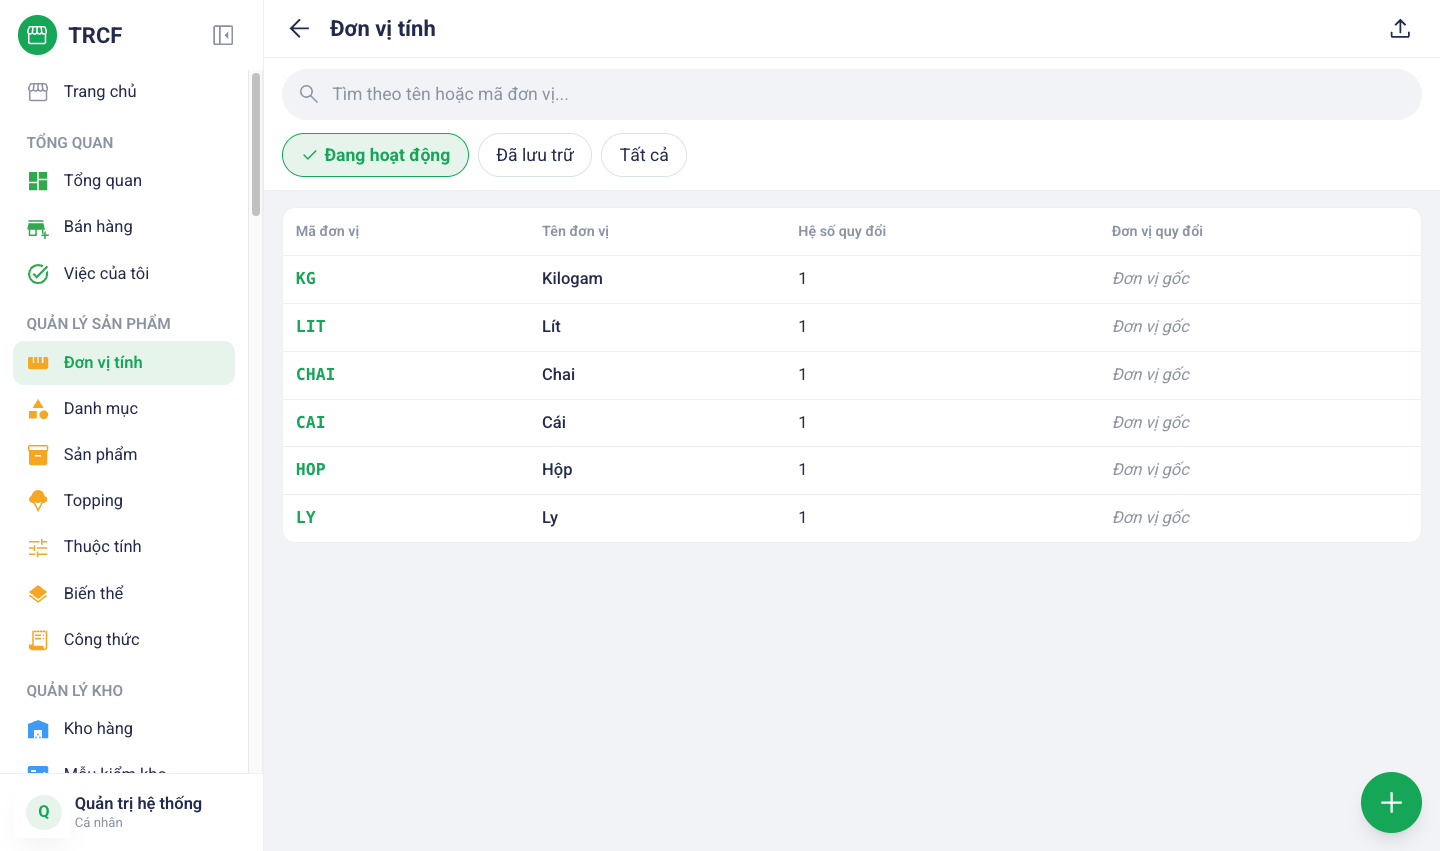
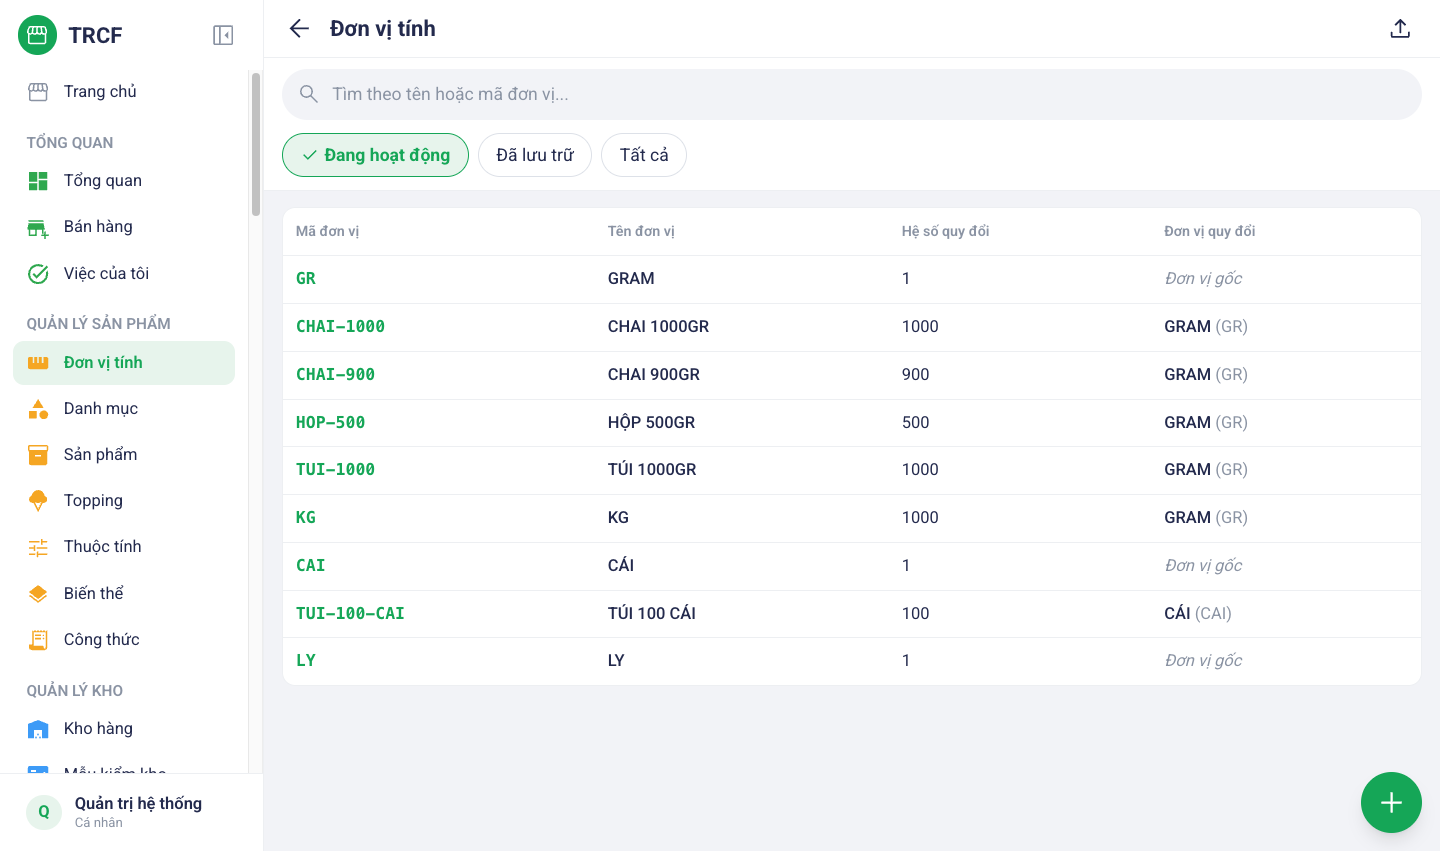
docs(1.1): đơn vị tính theo bộ mẫu GRAM → CHAI/HỘP/TÚI/KG
Chụp lại 3 ảnh trên dữ liệu thật Coffeetree: danh sách xếp gốc trước,
đơn vị lớn sau; bước 2 thêm GRAM (GR, đơn vị gốc); bước 3 thêm
CHAI 1000GR (quy về GRAM, hệ số 1000). Khung ví dụ, bảng trường và
bộ đơn vị mẫu đổi theo cùng bộ GR, CHAI, HỘP, TÚI, KG, TÚI 100 CÁI.

diff --git a/noi-dung/1-1-thiet-lap-don-vi-tinh.md b/noi-dung/1-1-thiet-lap-don-vi-tinh.md
@@ -9,11 +9,11 @@ Menu trái: ==Quản lý sản phẩm → Đơn vị tính== (địa chỉ `/uom
 
 ## 2. Ví dụ nền và các bước thực hiện
 
-> **Ví dụ:** cà phê nhập theo KG, pha chế trừ theo G; ly nhập theo thùng, bán theo cái.
+> **Ví dụ:** siro nhập theo chai 1000GR, pha chế trừ theo gram; ly nhựa nhập theo túi 100 cái, dùng theo cái.
 >
-> - Đơn vị gốc: **G**, **CÁI** (hệ số 1).
-> - Đơn vị lớn: **KG** = 1000 G · **THÙNG 30 CÁI** = 30 CÁI.
-> - Nhập 5 KG → hệ thống ghi tồn 5000 G.
+> - Đơn vị gốc: **GR** (GRAM), **CAI** (CÁI) — hệ số 1.
+> - Đơn vị lớn: **CHAI 1000GR** = 1000 GR · **TÚI 100 CÁI** = 100 CÁI.
+> - Nhập 5 CHAI 1000GR → hệ thống ghi tồn 5000 GR.
 
 ### Bước 1: Mở trang Đơn vị tính
 
@@ -32,7 +32,7 @@ Menu trái: ==Quản lý sản phẩm → Đơn vị tính== (địa chỉ `/uom
 
 - Bấm **+** lần nữa.
 - Điền như ảnh, bấm **Thêm đơn vị**.
-- Làm tương tự cho **KG**: quy đổi về **G**, hệ số **1000**.
+- Làm tương tự cho **KG**: quy đổi về **GRAM**, hệ số **1000**.
 
 ![Bước 3: Thêm đơn vị lớn hơn](images/02-uom-buoc-3-don-vi-quy-doi.png)
 
@@ -41,25 +41,26 @@ Menu trái: ==Quản lý sản phẩm → Đơn vị tính== (địa chỉ `/uom
 
 | Trường         | Điền gì                                                                                                                     | Bắt buộc |
 | -------------- | --------------------------------------------------------------------------------------------------------------------------- | -------- |
-| Mã đơn vị      | Ngắn, viết hoa. Ví dụ: **LY**, **KG**, **G**, **TUI-1000**, **CHAI-900**, **HOP-500**                                       | ✅        |
-| Tên đơn vị     | Ví dụ: **LY**, **KILOGRAM**, **GRAM**, **TÚI 1000G**, **CHAI 900G**, **HỘP 500G**                                           | ✅        |
-| Đơn vị quy đổi | Đơn vị gốc mà đơn vị này quy về. **KG** quy về **GRAM**; **THÙNG 30 CÁI** quy về **CÁI**. Đơn vị gốc thì giữ **Đơn vị gốc** | ✅        |
+| Mã đơn vị      | Ngắn, viết hoa. Ví dụ: **GR**, **CHAI-1000**, **HOP-500**, **TUI-1000**, **KG**, **LY**                                   | ✅        |
+| Tên đơn vị     | Ví dụ: **GRAM**, **CHAI 1000GR**, **HỘP 500GR**, **TÚI 1000GR**, **KG**, **LY**                                       | ✅        |
+| Đơn vị quy đổi | Đơn vị gốc mà đơn vị này quy về. **CHAI 1000GR** quy về **GRAM**; **TÚI 100 CÁI** quy về **CÁI**. Đơn vị gốc thì giữ **Đơn vị gốc** | ✅        |
 | Hệ số quy đổi  | Bằng bao nhiêu đơn vị gốc. Nếu là đơn vị gốc thì điền **1**                                                                 | ✅        |
 
 
 ## Bộ đơn vị mẫu cho quán
 
 
-| Mã           | Tên          | Hệ số | Quy đổi về |
-| ------------ | ------------ | ----- | ---------- |
-| LY           | LY           | 1     | *(gốc)*    |
-| G            | GRAM         | 1     | *(gốc)*    |
-| KG           | KILOGRAM     | 1000  | GRAM       |
-| TUI-1000     | TÚI 1000G    | 1000  | GRAM       |
-| CHAI-900     | CHAI 900G    | 900   | GRAM       |
-| HOP-500      | HỘP 500G     | 500   | GRAM       |
-| CAI          | CÁI          | 1     | *(gốc)*    |
-| THUNG-30-CAI | THÙNG 30 CÁI | 30    | CÁI        |
+| Mã          | Tên         | Hệ số | Quy đổi về |
+| ----------- | ----------- | ----- | ---------- |
+| GR          | GRAM        | 1     | *(gốc)*    |
+| CHAI-1000   | CHAI 1000GR | 1000  | GRAM       |
+| CHAI-900    | CHAI 900GR  | 900   | GRAM       |
+| HOP-500     | HỘP 500GR   | 500   | GRAM       |
+| TUI-1000    | TÚI 1000GR  | 1000  | GRAM       |
+| KG          | KG          | 1000  | GRAM       |
+| CAI         | CÁI         | 1     | *(gốc)*    |
+| TUI-100-CAI | TÚI 100 CÁI | 100   | CÁI        |
+| LY          | LY          | 1     | *(gốc)*    |
 
 
 ## 4. Lưu ý quan trọng
